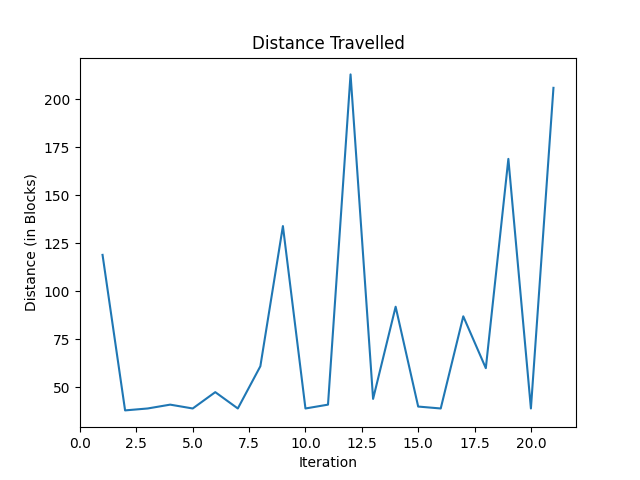
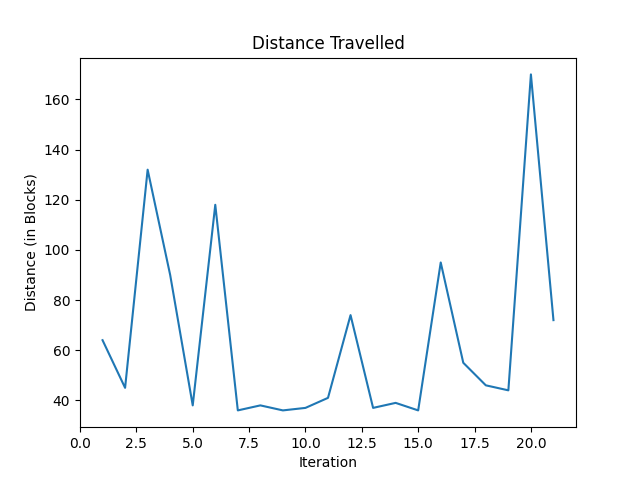
Got CNN working

diff --git a/newMain.py b/newMain.py
@@ -13,23 +13,30 @@ from collections import deque
 import matplotlib.pyplot as plt 
 import numpy as np
 from numpy.random import randint
+import torch
+import torch.nn as nn
+from torch.utils.data import Dataset, DataLoader
 
-import tensorflow as tf
-from tensorflow import keras
-from tensorflow.keras import layers
+import keras
+from keras.models import Sequential,Input,Model
+from keras.layers import Dense, Dropout, Flatten
+from keras.layers import Conv3D, MaxPooling3D
+from keras.layers.normalization import BatchNormalization
+from keras.layers.advanced_activations import LeakyReLU
+from keras.models import model_from_json
 
 # Hyperparameters
 SIZE = 50
 REWARD_DENSITY = .1
 PENALTY_DENSITY = .02
-OBS_SIZE = 17
+OBS_SIZE = 11
 DEPTH = 20
 MAX_EPISODE_STEPS = 1000
 MAX_GLOBAL_STEPS = 100000
 REPLAY_BUFFER_SIZE = 10000
 EPSILON_DECAY = .999
 MIN_EPSILON = .1
-BATCH_SIZE = 32
+BATCH_SIZE = 128
 GAMMA = .9
 TARGET_UPDATE = 100
 LEARNING_RATE = 1e-4
@@ -42,7 +49,6 @@ ACTION_DICT = {
     3: 'right',
     4: 'nothing'
 }
-NUM_ACTIONS = 5
 my_mission, my_clients, my_mission_record = None, None, None
 
 dist = [0]
@@ -50,6 +56,35 @@ AIR, OTHER_BLOCK, WATER = 0, 1, 2
 LEVEL = 1
 # be sure to change this to YOUR PATH
 path = 'C:/Users/AnthonyN/Desktop/TheUltimateDropper/DropperMap'
+
+
+class CNN:
+    
+    def __init__(self, obs_size, action_size):
+        self.model = Sequential()
+        self.model.add(Conv3D(32, kernel_size = (3, 3, 3), activation = 'linear', input_shape = obs_size, padding = 'same'))
+        self.model.add(LeakyReLU(alpha = 0.1))
+        self.model.add(MaxPooling3D((2, 2, 2), padding = 'same'))
+        self.model.add(Conv3D(64, (3, 3, 3), activation = 'linear', padding = 'same'))
+        self.model.add(LeakyReLU(alpha=0.1))
+        self.model.add(MaxPooling3D(pool_size = (2, 2, 2), padding = 'same'))
+        self.model.add(Conv3D(128, (3, 3, 3), activation = 'linear', padding = 'same'))
+        self.model.add(LeakyReLU(alpha = 0.1))                  
+        self.model.add(MaxPooling3D(pool_size = (2, 2, 2), padding = 'same'))
+        self.model.add(Flatten())
+        self.model.add(Dense(128, activation = 'linear'))
+        self.model.add(LeakyReLU(alpha = 0.1))                  
+        self.model.add(Dense(action_size, activation = 'softmax'))
+        self.model.compile(loss = keras.losses.categorical_crossentropy, optimizer = keras.optimizers.Adam(), metrics = ['accuracy'])
+
+    def forward(self, obs) -> 'Prediction Tensor':
+        return self.model.predict(obs.view(obs.shape[0], -1))
+
+    def get_model(self) -> 'JSON Model':
+        return self.model.to_json()
+
+    def load_model(self, json_model) -> None:
+        self.model = model_from_json(json_model)
 
 
 def GetMissionXML():
@@ -110,35 +145,50 @@ def GetMissionXML():
             </Mission>'''
 
 
-def create_model(obs_size):
-    inputs = layers.Input(shape = obs_size)
-    layer1 = layers.Conv3D(32, kernel_size = (3, 3, 3), activation = 'relu', padding = 'same')(inputs)
-    layer2 = layers.MaxPooling3D((2, 2, 2), padding = 'same')(layer1)
-    layer3 = layers.Conv3D(64, (3, 3, 3), activation = 'relu', padding = 'same')(layer2)
-    layer4 = layers.MaxPooling3D((2, 2, 2), padding = 'same')(layer3)
-    layer5 = layers.Conv3D(128, (3, 3, 3), activation = 'relu', padding = 'same')(layer4)
-    layer6 = layers.MaxPooling3D(pool_size = (2, 2, 2), padding = 'same')(layer5)
-    layer7 = layers.Flatten()(layer6)
-    layer8 = layers.Dense(128, activation = 'relu')(layer7)
-    action = layers.Dense(NUM_ACTIONS, activation = 'linear')(layer8)
-    return keras.Model(inputs = inputs, outputs = action)
-
-
-def get_action(obs, model, epsilon, allow_break_action):
+def get_action(obs, cnn, epsilon, allow_break_action):
     """Select action according to e-greedy policy"""
-    
-    if np.random.ranf() <= epsilon:
-        action = np.random.choice(NUM_ACTIONS)
-        print(f'R {action} ', end = '')
-    else:
-        obs = tf.convert_to_tensor(obs)
-        obs = tf.expand_dims(obs, 0)
-        action_probs = model(obs, training = False)
-        action = tf.argmax(action_probs[0].numpy())
-        print(f'A {action} ', end = '')
 
-    return action
+    if np.random.ranf() <= epsilon: return np.random.choice([0, 1, 2, 3, 4])
+
+    # Prevent computation graph from being calculated
+    with torch.no_grad():
+        # Calculate probabilities of each action
+        obs_torch = torch.tensor(obs.copy(), dtype=torch.float).unsqueeze(0)
+        action_values = cnn.forward(obs_torch)
+        # Select action with highest value **MAY WANT TO CHANGE THIS**
+        action_idx = torch.argmax(action_values).item()
+        
+    return action_idx
+
+
+def init_malmo(agent_host):
+    """Initialize new malmo mission"""
     
+    global my_mission, my_clients, my_mission_record
+    max_retries = 3
+    if my_mission is None:
+        my_mission = MalmoPython.MissionSpec(GetMissionXML(), True)
+        my_mission_record = MalmoPython.MissionRecordSpec()
+        my_mission.requestVideo(800, 500)
+        my_mission.setViewpoint(1)
+       
+        my_clients = MalmoPython.ClientPool()
+        my_clients.add(MalmoPython.ClientInfo('127.0.0.1', 10000)) # add Minecraft machines here as available
+        
+    for retry in range(max_retries):
+        try:
+            agent_host.startMission(my_mission, my_clients, my_mission_record, 0, "TheUltimateDropper")
+            break
+        except RuntimeError as e:
+            if retry == max_retries - 1:
+                print("Error starting mission:", e)
+                exit(1)
+            else:
+                time.sleep(2)
+
+    return agent_host
+
+
 def get_observation(world_state):
     """Use the agent observation API to get a 20 x 10 x 10 grid around the agent"""
     
@@ -176,47 +226,74 @@ def get_observation(world_state):
 
 
 def prepare_batch(replay_buffer):
-    """Randomly sample batch from replay buffer and prepare tensors"""
+    """
+    Randomly sample batch from replay buffer and prepare tensors
 
+    Args:
+        replay_buffer (list): obs, action, next_obs, reward, done tuples
+
+    Returns:
+        obs (tensor): float tensor of size (BATCH_SIZE x obs_size
+        action (tensor): long tensor of size (BATCH_SIZE)
+        next_obs (tensor): float tensor of size (BATCH_SIZE x obs_size)
+        reward (tensor): float tensor of size (BATCH_SIZE)
+        done (tensor): float tensor of size (BATCH_SIZE)
+    """
     batch_data = random.sample(replay_buffer, BATCH_SIZE)
-    obs = tf.convert_to_tensor([x[0] for x in batch_data], dtype = tf.float32)
-    action = tf.convert_to_tensor([x[1] for x in batch_data], dtype = tf.int32)
-    next_obs = tf.convert_to_tensor([x[2] for x in batch_data], dtype = tf.float32)
-    reward = tf.convert_to_tensor([x[3] for x in batch_data], dtype = tf.float32)
-    done = tf.convert_to_tensor([x[4] for x in batch_data], dtype = tf.float32)
+    obs = torch.tensor([x[0] for x in batch_data], dtype=torch.float)
+    action = torch.tensor([x[1] for x in batch_data], dtype=torch.long)
+    next_obs = torch.tensor([x[2] for x in batch_data], dtype=torch.float)
+    reward = torch.tensor([x[3] for x in batch_data], dtype=torch.float)
+    done = torch.tensor([x[4] for x in batch_data], dtype=torch.float)
+    
     return obs, action, next_obs, reward, done
   
 
-def learn(batch, model, model_target, optim, loss_func):
+def learn(batch, cnn, target_network):
     """Update CNN according to DQN Loss function"""
 
     obs, action, next_obs, reward, done = batch
-    future_rewards = model_target.predict(next_obs)
-    updated_q_values = reward + GAMMA * tf.reduce_max(future_rewards, axis = 1) * (1 - done)
-    masks = tf.one_hot(action, NUM_ACTIONS)
-    with tf.GradientTape() as tape:
-        q_values = model(obs)
-        q_action = tf.reduce_sum(tf.multiply(q_values, masks), axis = 1)
-        loss = loss_func(updated_q_values, q_action)
 
-    grads = tape.gradient(loss, model.trainable_variables)
-    optim.apply_gradients(zip(grads, model.trainable_variables))
-    return loss
-    
+    print (obs.shape, action, next_obs.shape, reward)
+
+    optim.zero_grad()
+    values = cnn.forward(obs).gather(1, action.unsqueeze(-1)).squeeze(-1)
+    target = torch.max(target_network(next_obs), 1)[0]
+    target = reward + GAMMA * target * (1 - done)
+    loss = torch.mean((target - values) ** 2)
+    loss.backward()
+    optim.step()
+
+    return loss.item()
+
+
+def log_returns():
+    plt.figure()
+    plt.plot(np.arange(1, 1 + len(dist)), dist)
+    plt.title('Distance Travelled')
+    plt.ylabel('Distance (in Blocks)')
+    plt.xlabel('Iteration')
+    plt.savefig('distance_plot.png')
+
 
 def train(agent_host):
-    """Main loop for the DQN learning algorithm"""
+    """
+    Main loop for the DQN learning algorithm
 
+    Args:
+        agent_host (MalmoPython.AgentHost)
+    """
     # Init networks
-    model = create_model((DEPTH, OBS_SIZE, OBS_SIZE, 1))
-    model_target = create_model((DEPTH, OBS_SIZE, OBS_SIZE, 1))
+    cnn = CNN((DEPTH, OBS_SIZE, OBS_SIZE, 1), len(ACTION_DICT))
+    target_network = CNN((DEPTH, OBS_SIZE, OBS_SIZE, 1), len(ACTION_DICT))
+    target_network.load_model(cnn.get_model())
 
     # Init optimizer
-    optim = keras.optimizers.Adam(learning_rate = LEARNING_RATE, clipnorm = 1.0)
+    #optim = torch.optim.Adam(cnn.parameters(), lr = LEARNING_RATE)
+
     # Init replay buffer
     replay_buffer = deque(maxlen = REPLAY_BUFFER_SIZE)
-    # Init loss function
-    loss_func = keras.losses.Huber()
+
     # Init vars
     global_step = 0
     num_episode = 0
@@ -248,7 +325,7 @@ def train(agent_host):
         while world_state.is_mission_running:
             # Get action
             allow_break_action = obs[1, int(OBS_SIZE/2)-1, int(OBS_SIZE/2)] == 1
-            action_idx = get_action(obs, model, epsilon, allow_break_action)
+            action_idx = get_action(obs, cnn, epsilon, allow_break_action)
             
             # forward
             if action_idx == 0: agent_host.sendCommand('move 1')
@@ -296,14 +373,14 @@ def train(agent_host):
             global_step += 1
             if global_step > START_TRAINING and global_step % LEARN_FREQUENCY == 0:
                 batch = prepare_batch(replay_buffer)
-                loss = learn(batch, model, model_target, optim, loss_func)
+                loss = learn(batch, cnn, target_network)
                 episode_loss += loss
 
                 if epsilon > MIN_EPSILON:
                     epsilon *= EPSILON_DECAY
 
                 if global_step % TARGET_UPDATE == 0:
-                    model_target.set_weights(model.get_weights())
+                    target_network.load_state_dict(cnn.state_dict())
     
         
         num_episode += 1
@@ -314,48 +391,11 @@ def train(agent_host):
         loop.set_description('Episode: {} Steps: {} Time: {:.2f} Loss: {:.2f} Last Return: {:.2f} Avg Return: {:.2f}'.format(
             num_episode, global_step, (time.time() - start_time) / 60, episode_loss, episode_return, avg_return))
 
-        if num_episode > 100:
+        if num_episode > 20:
             log_returns()
             exit(1)
 
         dist.append(0)
-
-
-def log_returns():
-    plt.figure()
-    plt.plot(np.arange(1, 1 + len(dist)), dist)
-    plt.title('Distance Travelled')
-    plt.ylabel('Distance (in Blocks)')
-    plt.xlabel('Iteration')
-    plt.savefig('distance_plot.png')
-
-
-def init_malmo(agent_host):
-    """Initialize new malmo mission"""
-    
-    global my_mission, my_clients, my_mission_record
-    max_retries = 3
-    if my_mission is None:
-        my_mission = MalmoPython.MissionSpec(GetMissionXML(), True)
-        my_mission_record = MalmoPython.MissionRecordSpec()
-        my_mission.requestVideo(800, 500)
-        my_mission.setViewpoint(1)
-       
-        my_clients = MalmoPython.ClientPool()
-        my_clients.add(MalmoPython.ClientInfo('127.0.0.1', 10000)) # add Minecraft machines here as available
-        
-    for retry in range(max_retries):
-        try:
-            agent_host.startMission(my_mission, my_clients, my_mission_record, 0, "TheUltimateDropper")
-            break
-        except RuntimeError as e:
-            if retry == max_retries - 1:
-                print("Error starting mission:", e)
-                exit(1)
-            else:
-                time.sleep(2)
-
-    return agent_host
 
 
 if __name__ == '__main__':
